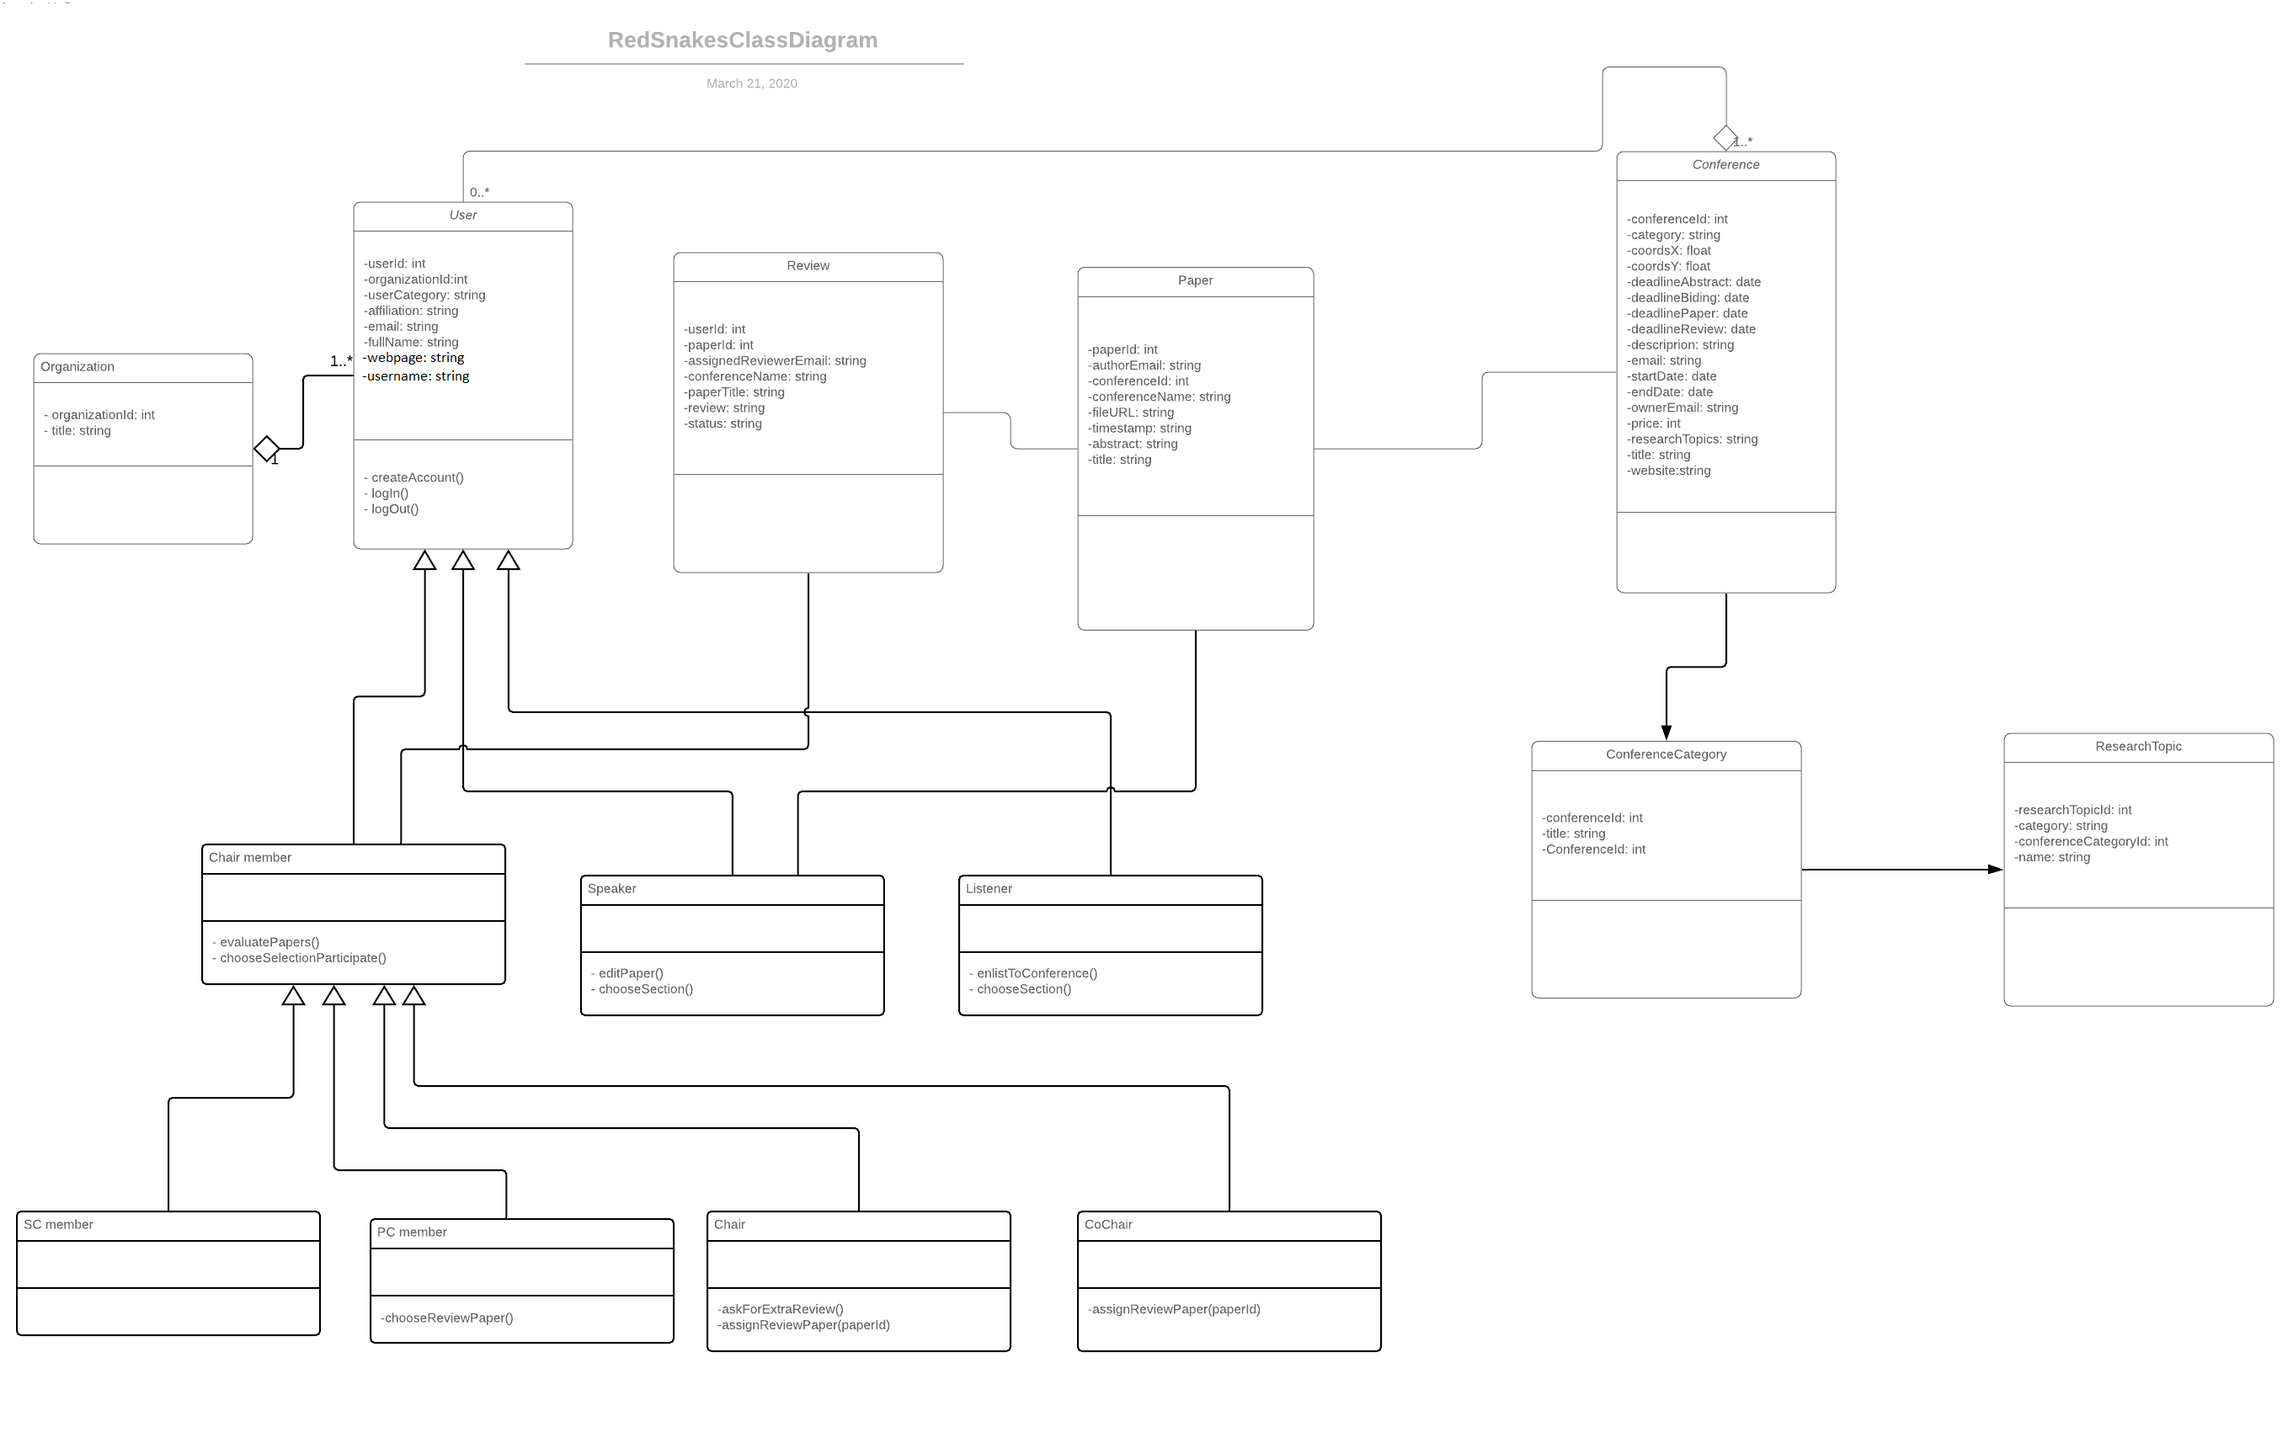
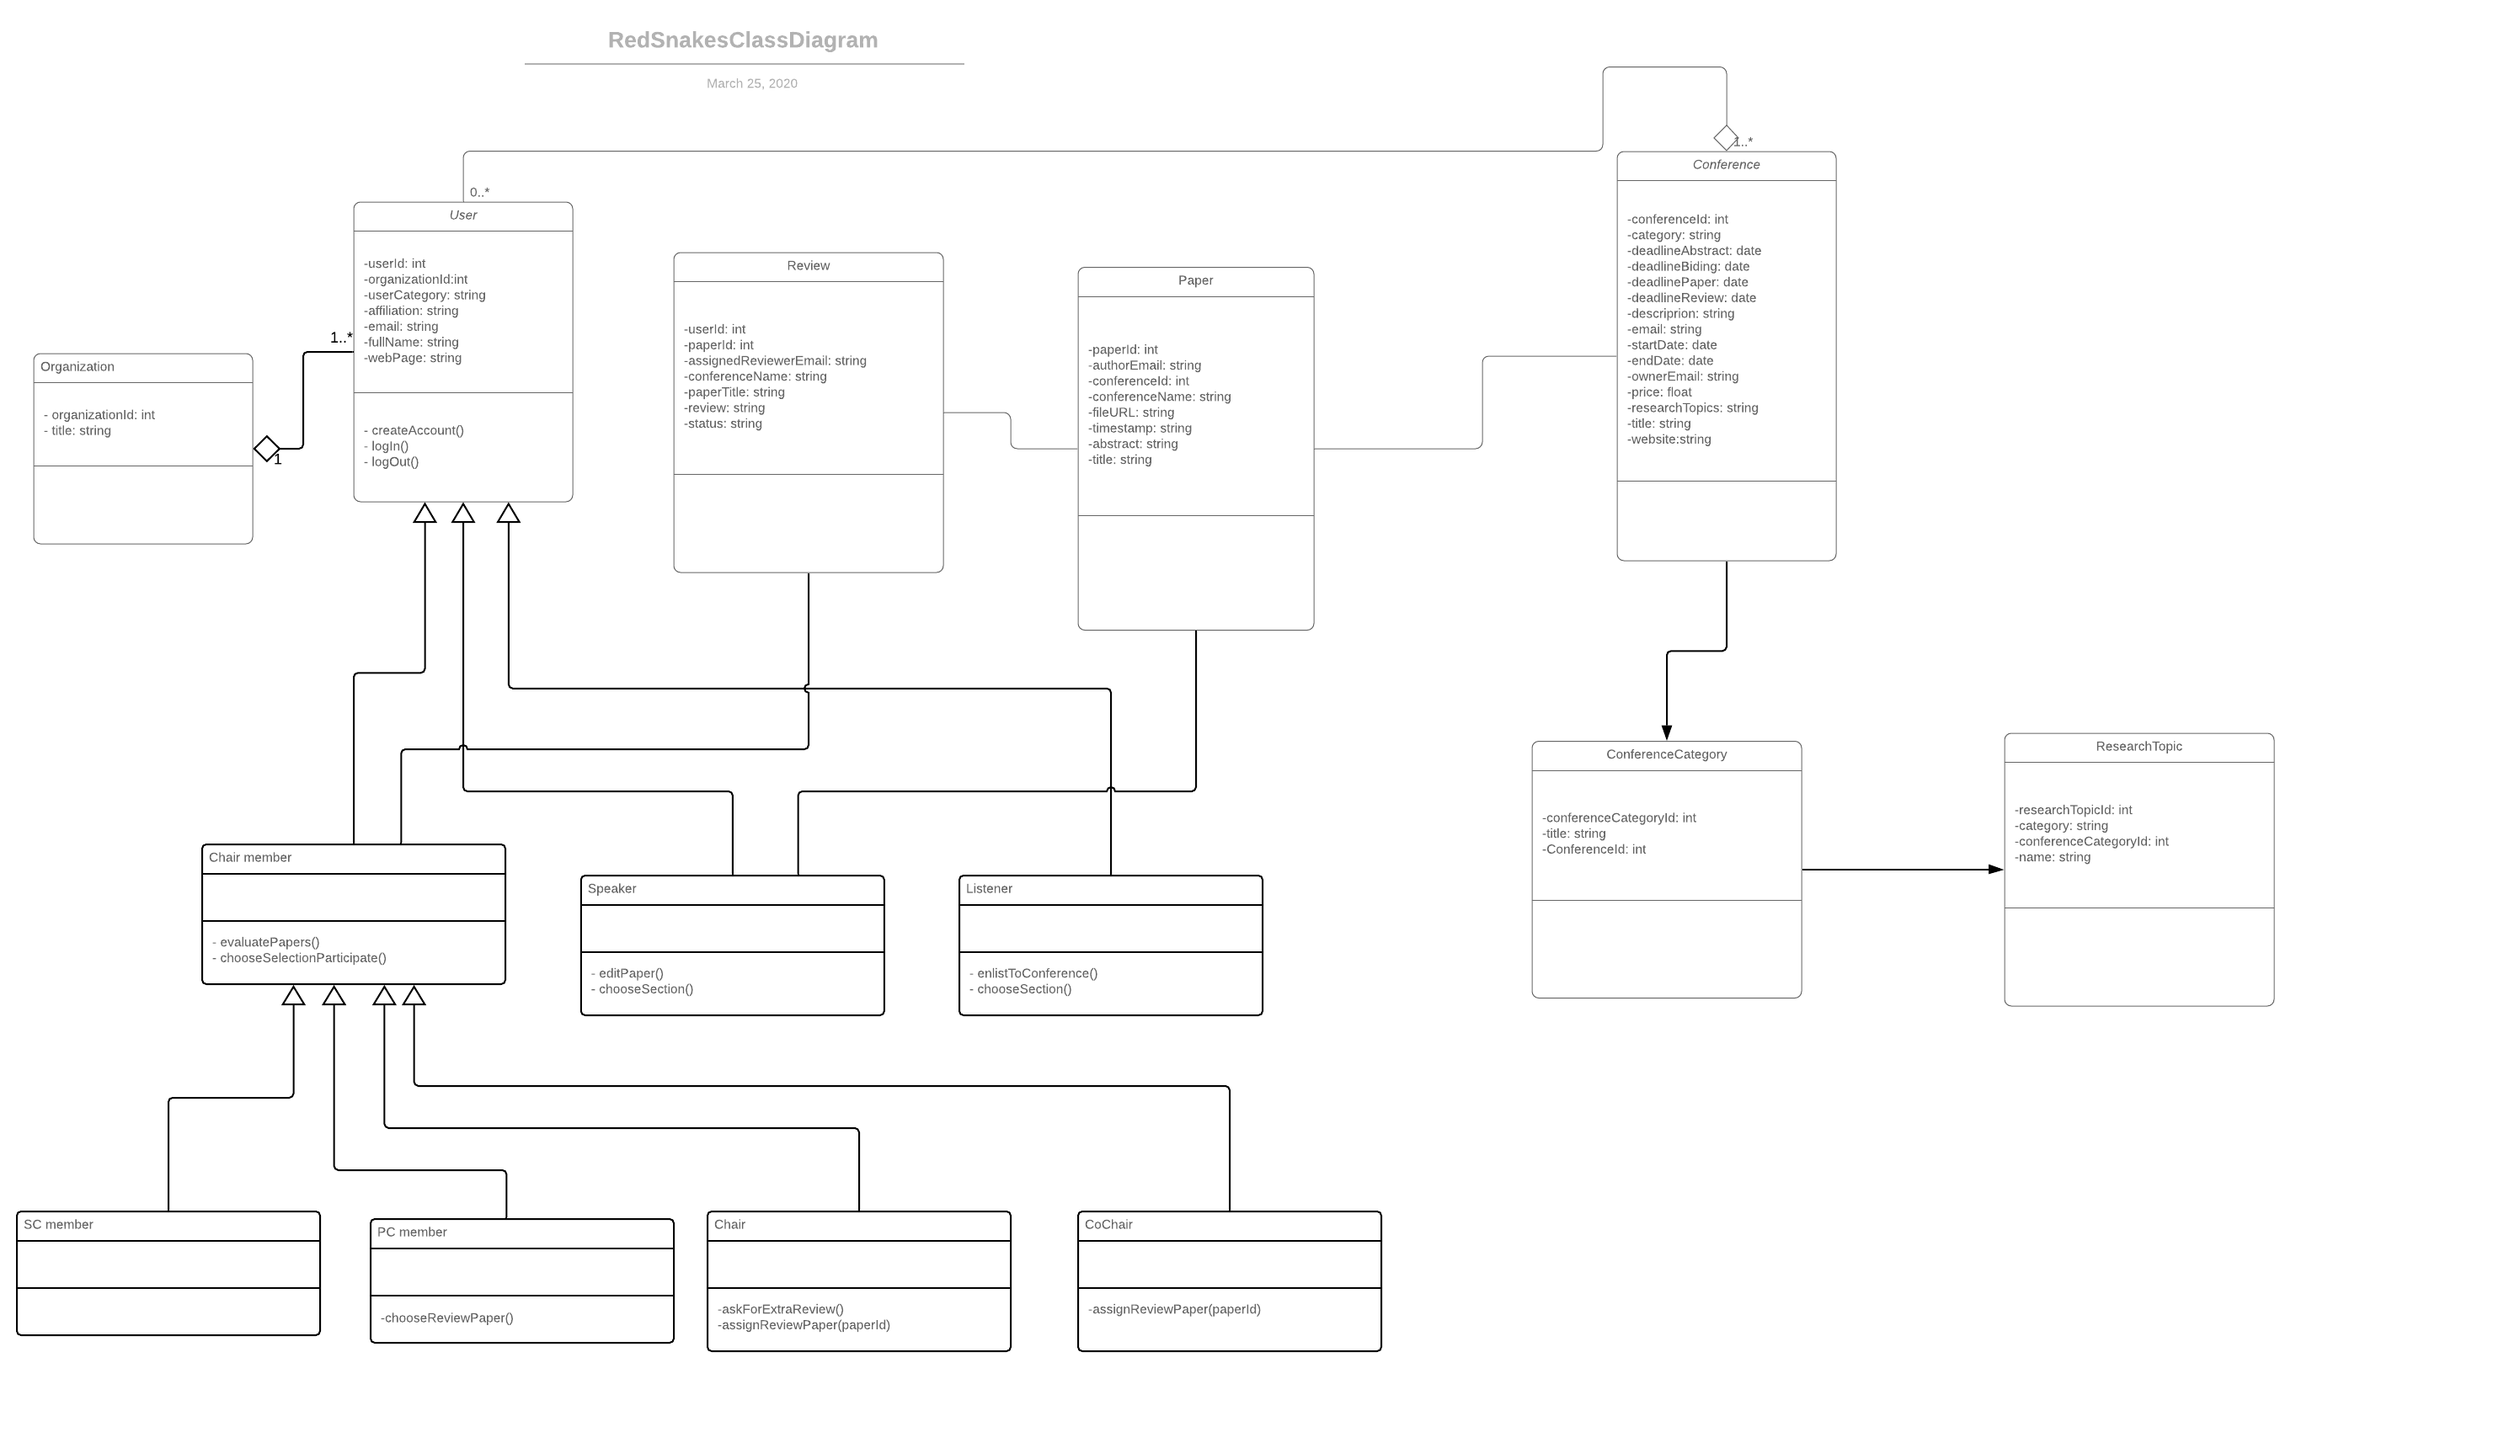
changed entities - not migrated

diff --git a/ConferenceManager/models.py b/ConferenceManager/models.py
@@ -71,8 +71,6 @@ class Conference(models.Model):
     Stores the information about a Conference
     Fields:
         -category: Varchar(50)
-        -coordsX: float
-        -coordsY: float
         -deadlineAbstract: date
         -deadlineBiding: date
         -deadlinePaper: date
@@ -88,8 +86,6 @@ class Conference(models.Model):
         -website:Varchar(50)
     """
     category = models.CharField(max_length=50)
-    coordsX = models.FloatField()
-    coordsY = models.FloatField()
     deadlineAbstract = models.DateField()
     deadlineBiding = models.DateField()
     deadlinePaper = models.DateField()
